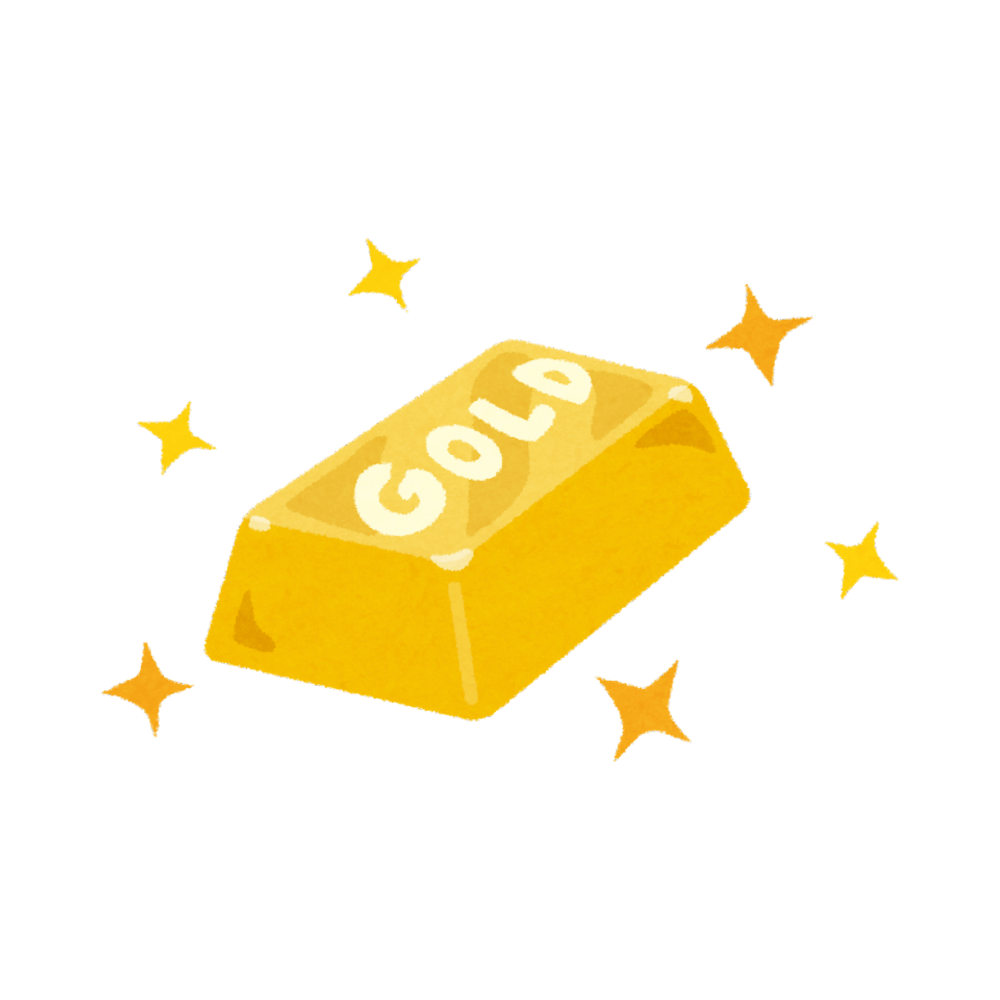
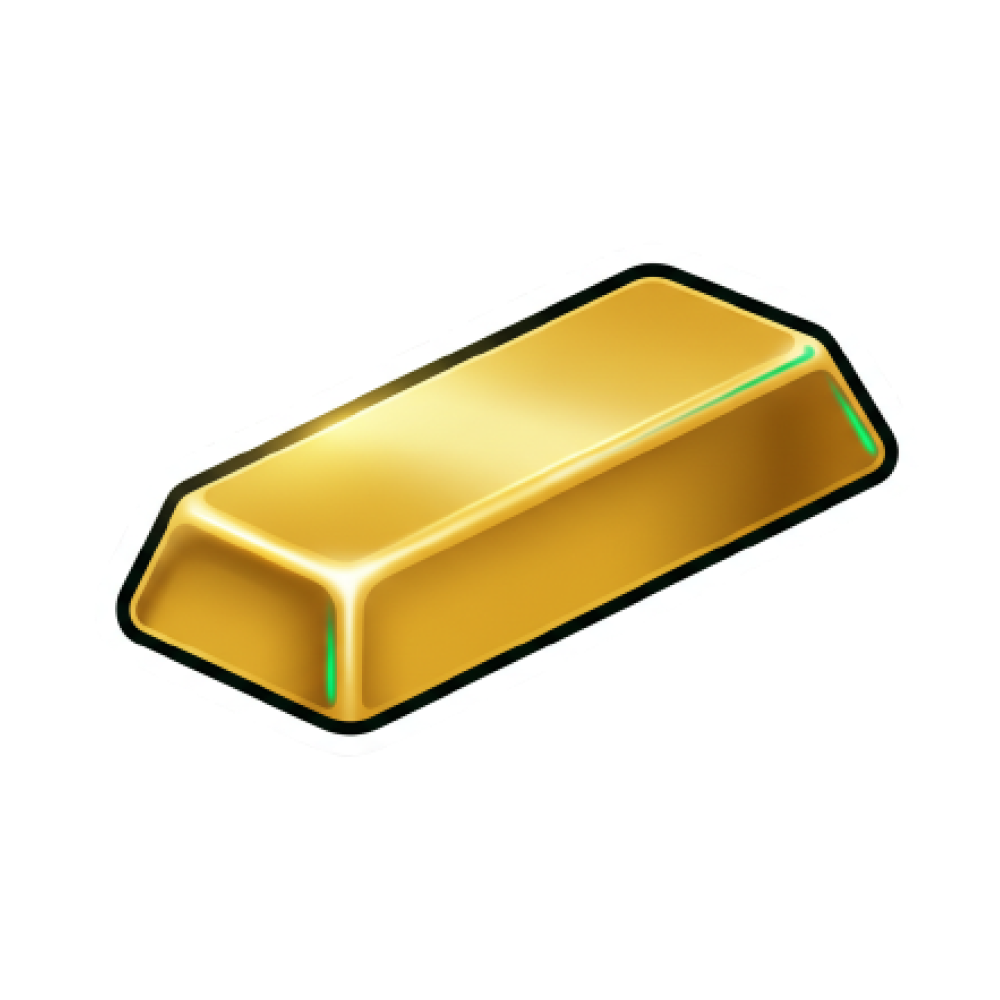
images update pay section

Changed region(s): [[0.093, 0.248, 0.899, 0.744], [0.589, 0.651, 0.682, 0.744], [0.341, 0.248, 0.434, 0.31]]

diff --git a/src/components/Pay/SafetyNetSection.tsx b/src/components/Pay/SafetyNetSection.tsx
@@ -62,7 +62,7 @@ export default function SafetyNetSection() {
             transition={{ duration: 0.8 }}
           >
             <Image
-              src="/pay/zero interest.png"
+              src="/pay/zero-interest.png"
               alt="Zero interest"
               width={320}
               height={320}
